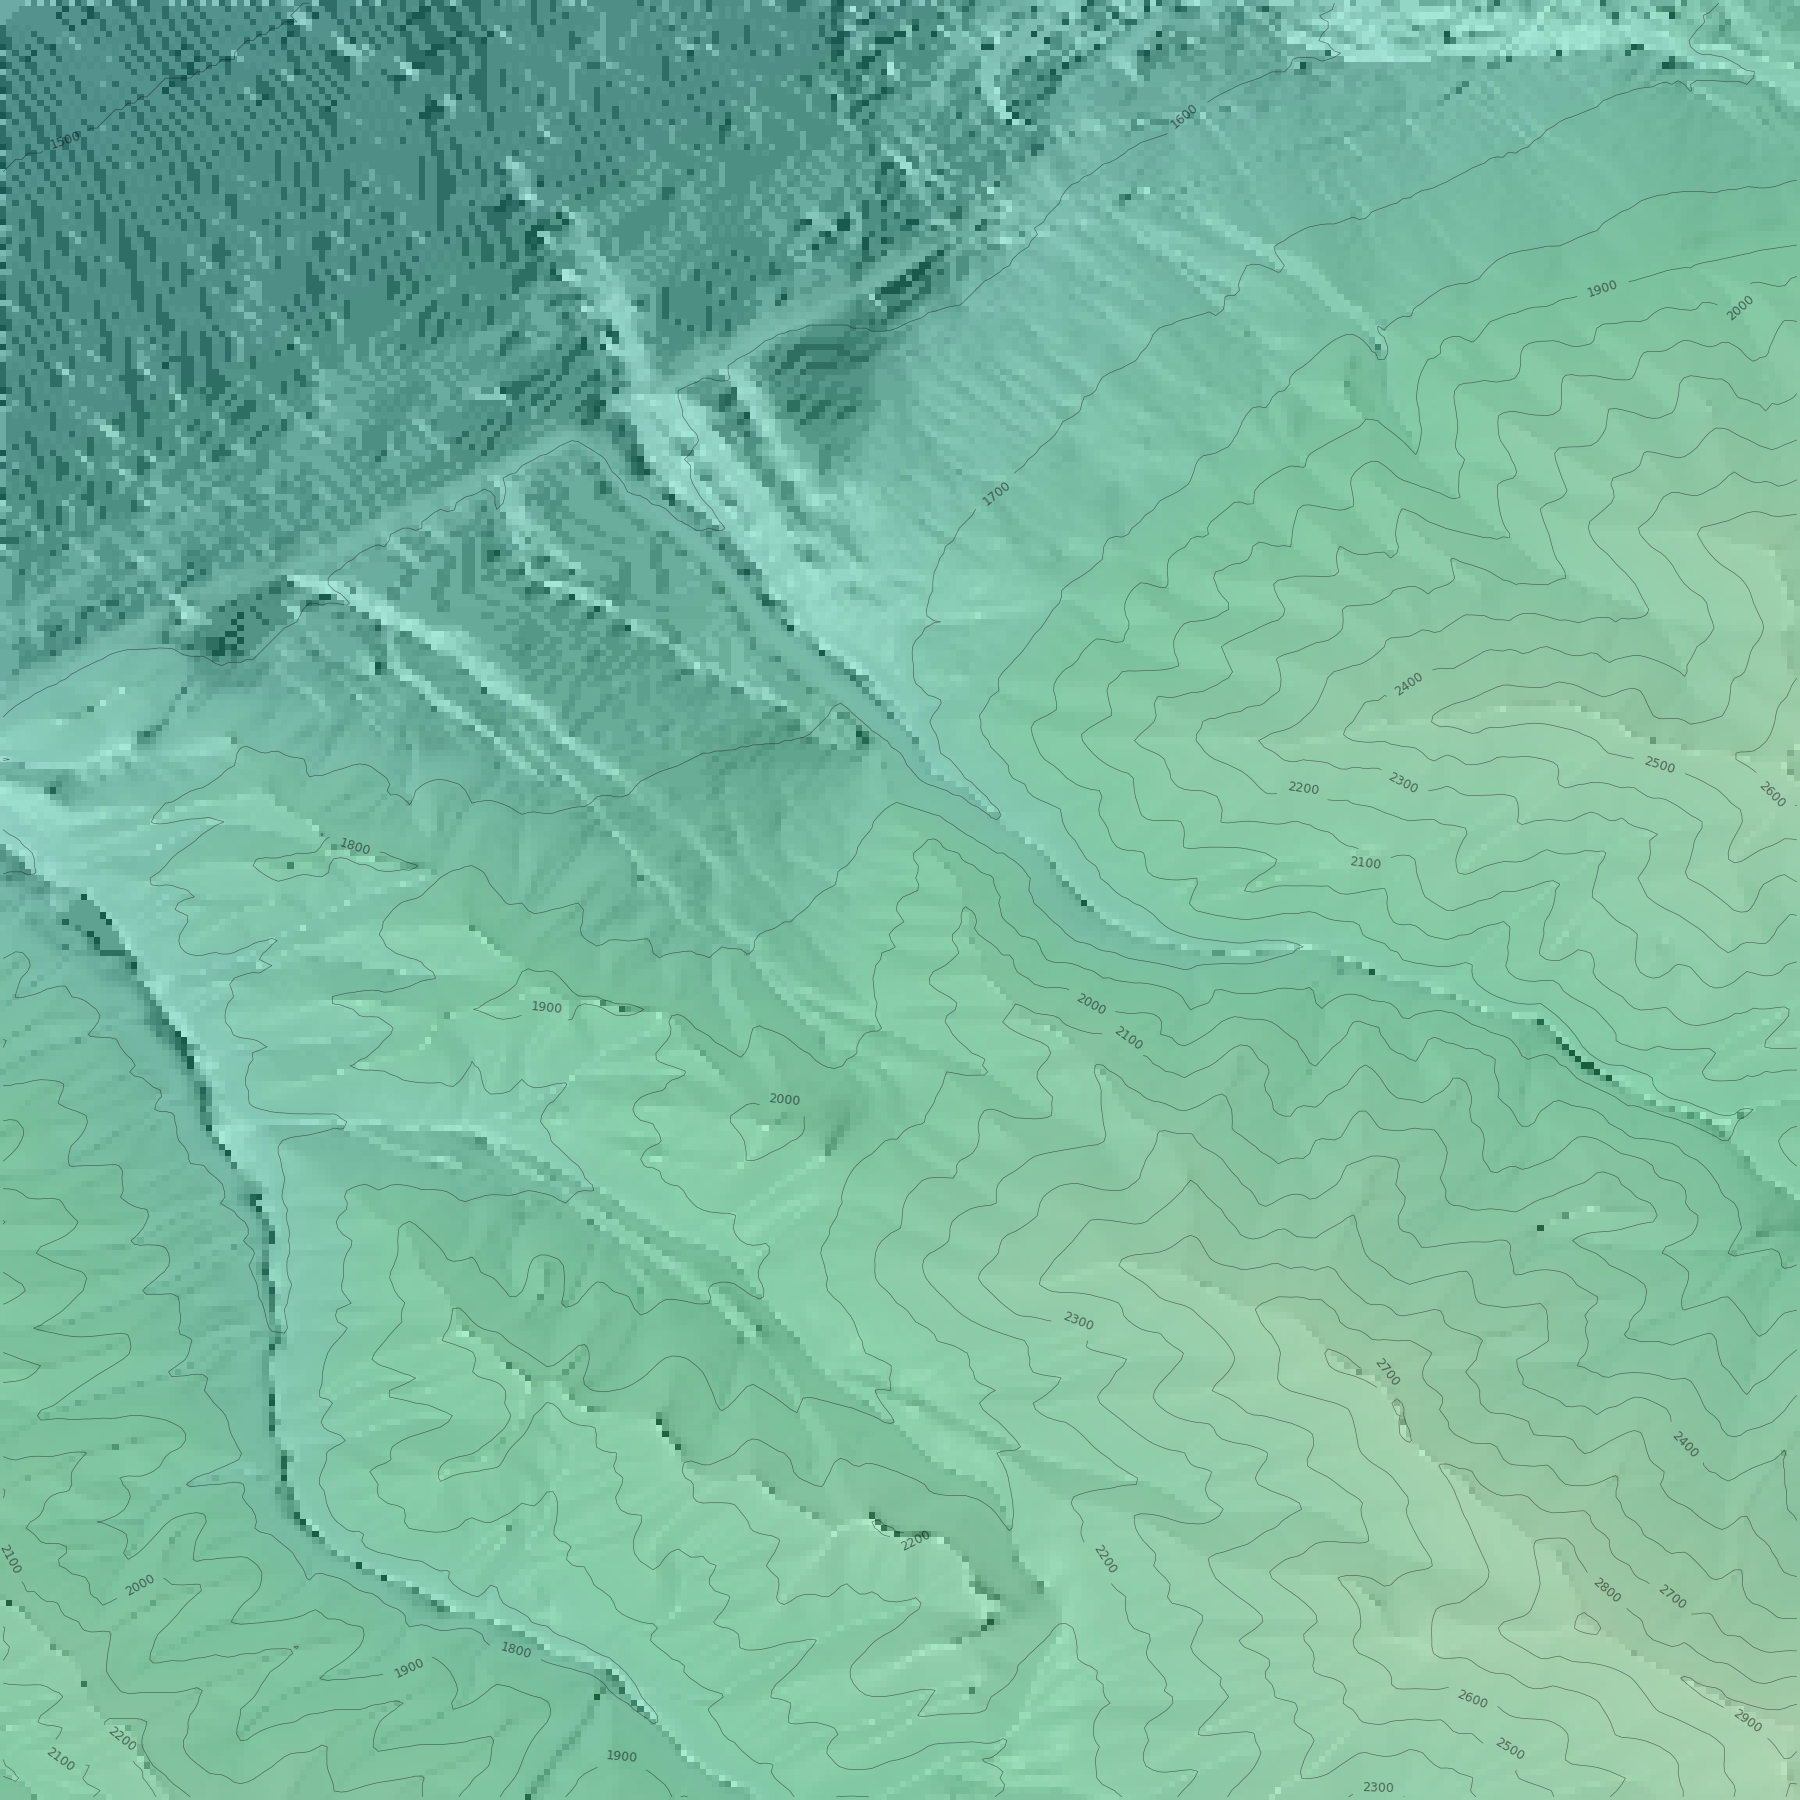
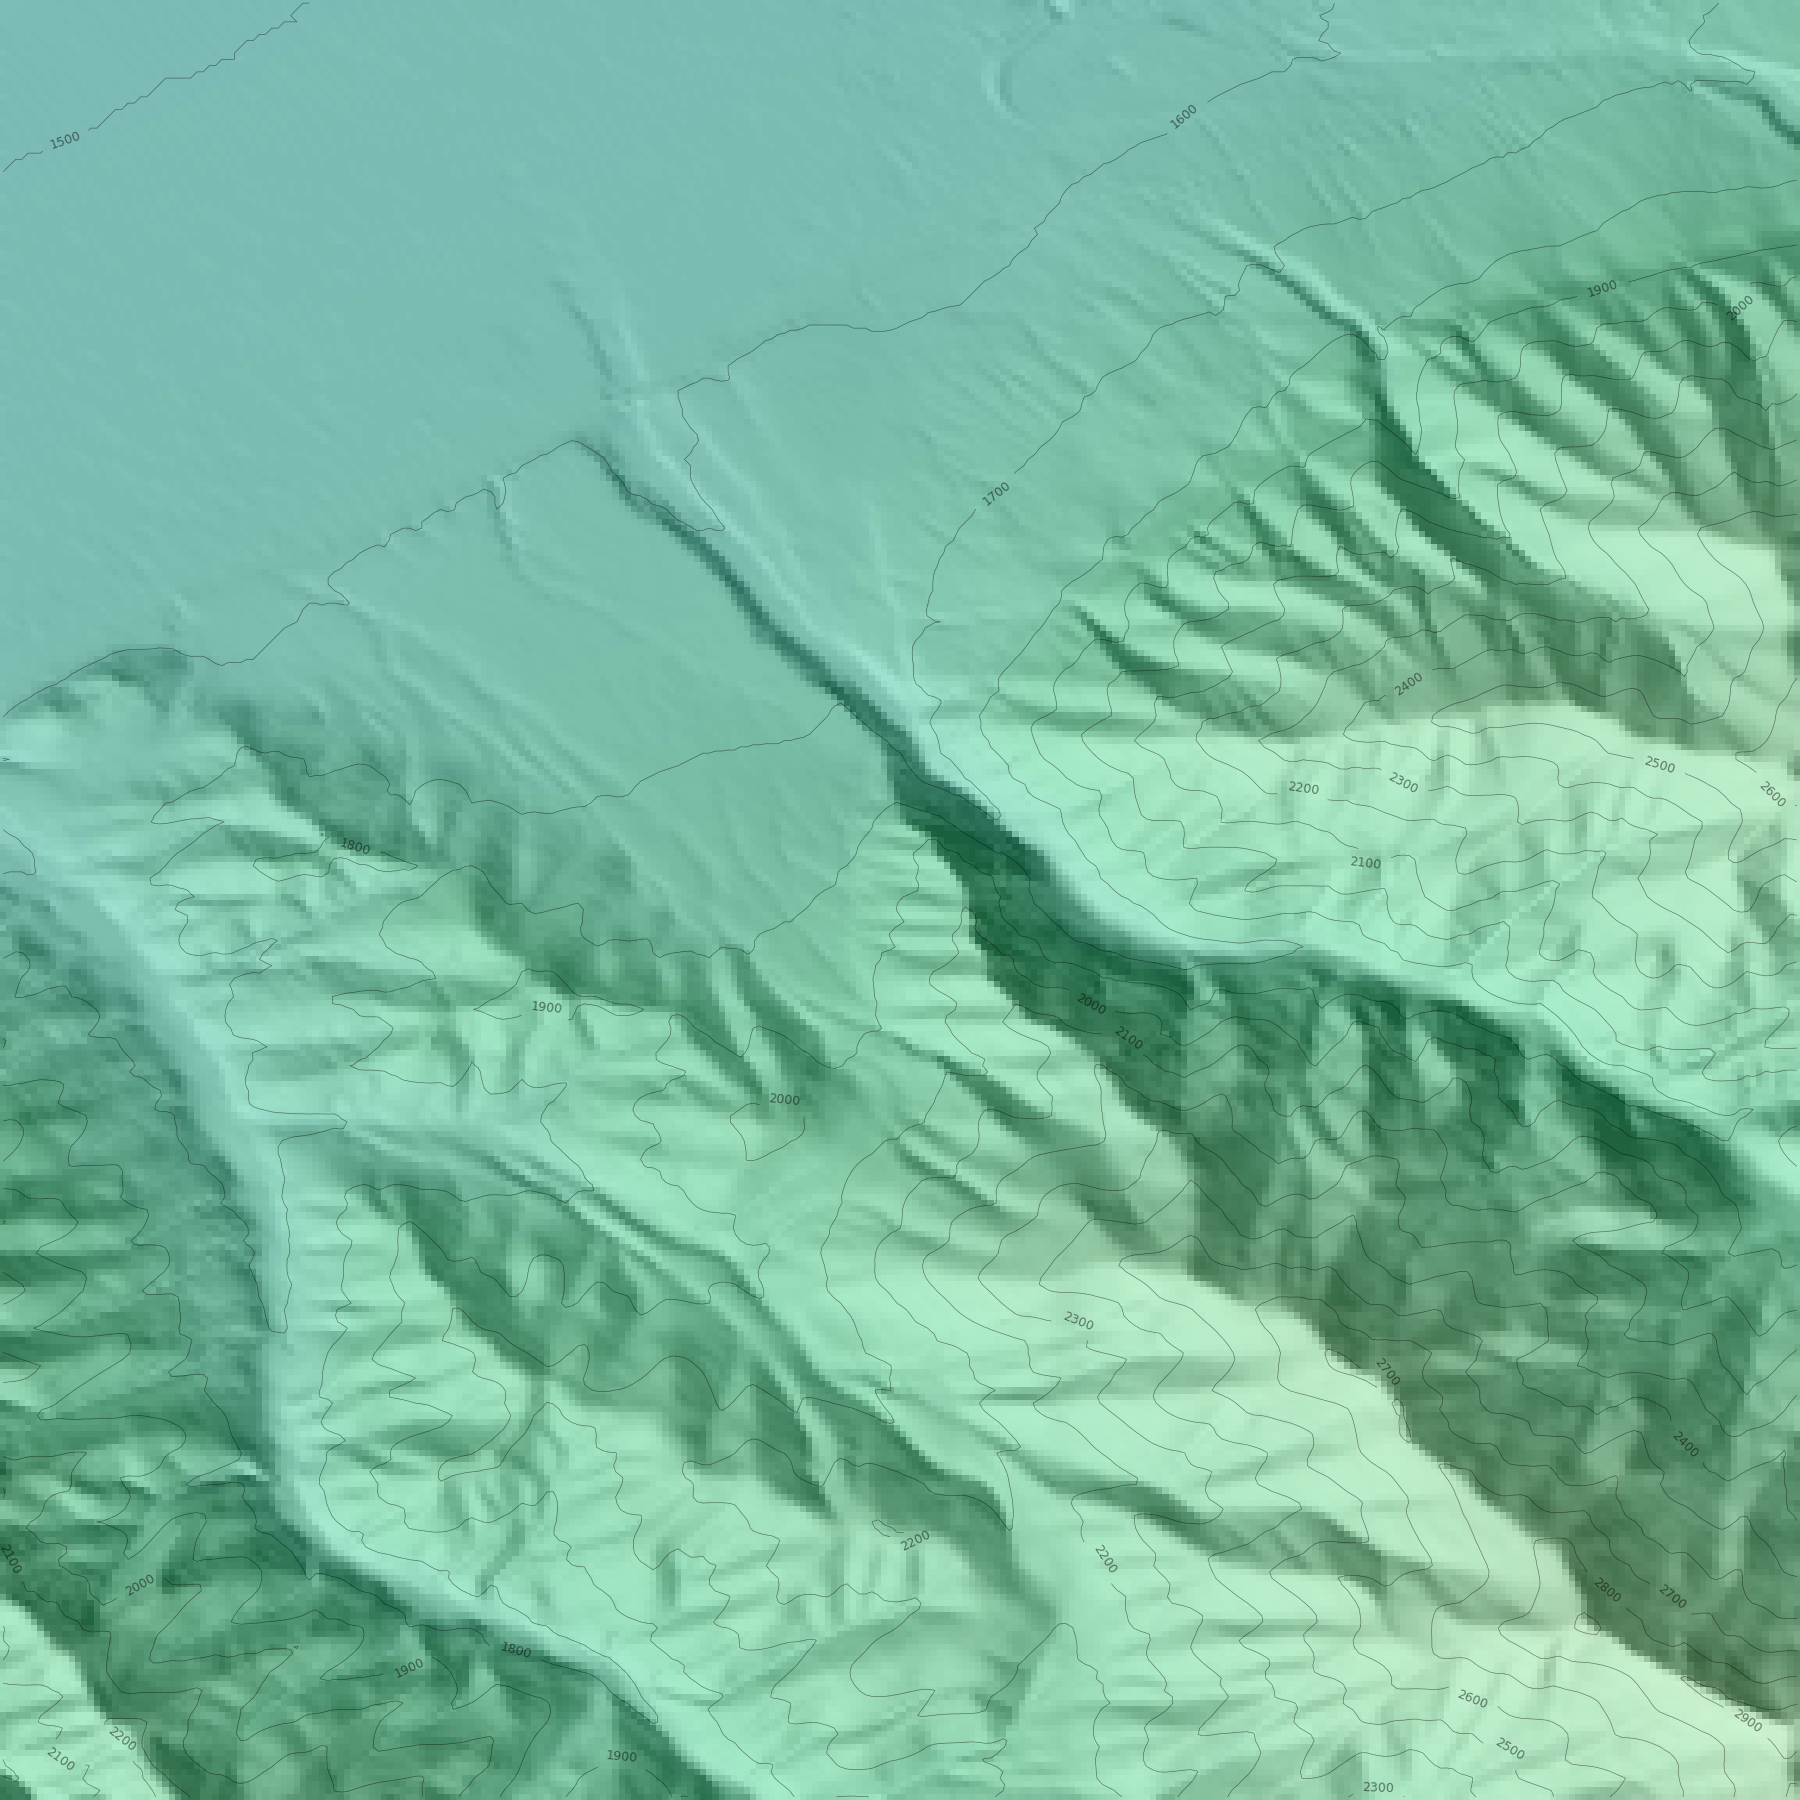
Fix bug with zero slope areas with dark colors

diff --git a/world_topo/main.py b/world_topo/main.py
@@ -5,6 +5,7 @@ import tempfile
 import numpy as np
 import rasterio
 from matplotlib import rcParams, pyplot as plt
+from matplotlib import cm as mpl_cm
 
 from world_topo.fetch.dem import fetch_dem
 from world_topo.fetch.imagery import fetch_imagery
@@ -78,7 +79,13 @@ def make_elevation_map(lat, lon, width, height, output,
                     ax.imshow(np.transpose(rgb, (1, 2, 0)),
                               extent=img_extent, alpha=0.9)
 
-        shade = compute_hillshade(dem)
+        center_lat_rad = np.radians((bounds.top + bounds.bottom) / 2)
+        dlon = (bounds.right - bounds.left) / nx
+        dlat = (bounds.top - bounds.bottom) / ny
+        x_res = dlon * 111320 * np.cos(center_lat_rad)
+        y_res = dlat * 111320
+
+        shade = compute_hillshade(dem, resolution=(y_res, x_res))
         shade_alpha = 0.35 if imagery_path else 0.85
         ax.imshow(shade, extent=extent, cmap='gray', alpha=shade_alpha)
 
@@ -95,22 +102,6 @@ def make_elevation_map(lat, lon, width, height, output,
             center_lon = (bounds.left + bounds.right) / 2
             ax.set_title(f'Elevation Map ({center_lat:.4f}°, {center_lon:.4f}°)')
             plt.tight_layout()
-
-        if debug:
-            fig_dem, ax_dem = plt.subplots(1, 1, figsize=figsize)
-            ax_dem.imshow(dem, extent=extent, cmap='terrain',
-                          vmin=-500, vmax=9000)
-            ax_dem.set_title('DEM (raw)')
-            fig_dem.savefig(output.replace('.png', '_dem.png'), dpi=150,
-                            bbox_inches='tight')
-            plt.close(fig_dem)
-
-            fig_shade, ax_shade = plt.subplots(1, 1, figsize=figsize)
-            ax_shade.imshow(shade, extent=extent, cmap='gray')
-            ax_shade.set_title('Hillshade')
-            fig_shade.savefig(output.replace('.png', '_hillshade.png'), dpi=150,
-                              bbox_inches='tight')
-            plt.close(fig_shade)
 
         plt.savefig(output, dpi=150, bbox_inches='tight',
                     pad_inches=0 if clean else 0.1)

diff --git a/world_topo/render/hillshade.py b/world_topo/render/hillshade.py
@@ -1,16 +1,26 @@
 import numpy as np
 
 
-def compute_hillshade(elevation, azimuth=315, altitude=45, ambient=0.3):
+def compute_hillshade(elevation, azimuth=315, altitude=45, ambient=0.3,
+                      resolution=None):
     dy, dx = np.gradient(elevation)
+    if resolution is not None:
+        y_res, x_res = resolution
+        dx = dx / x_res
+        dy = dy / y_res
     aspect = np.arctan2(-dy, dx)
     slope = np.arctan(np.sqrt(dx * dx + dy * dy))
 
     azimuth_rad = np.radians(360 - azimuth)
     altitude_rad = np.radians(altitude)
 
-    shaded = (np.sin(altitude_rad) * np.sin(slope)
-              + np.cos(altitude_rad) * np.cos(slope)
+    slope_min = 0.01
+    slope_max = 0.05
+    t = np.clip((slope - slope_min) / (slope_max - slope_min), 0, 1)
+    aspect_weight = t * t * (3 - 2 * t)
+
+    shaded = (np.cos(altitude_rad) * np.cos(slope)
+              + aspect_weight * np.sin(altitude_rad) * np.sin(slope)
               * np.cos(azimuth_rad - aspect))
 
     shaded = np.clip(shaded, 0, 1)
